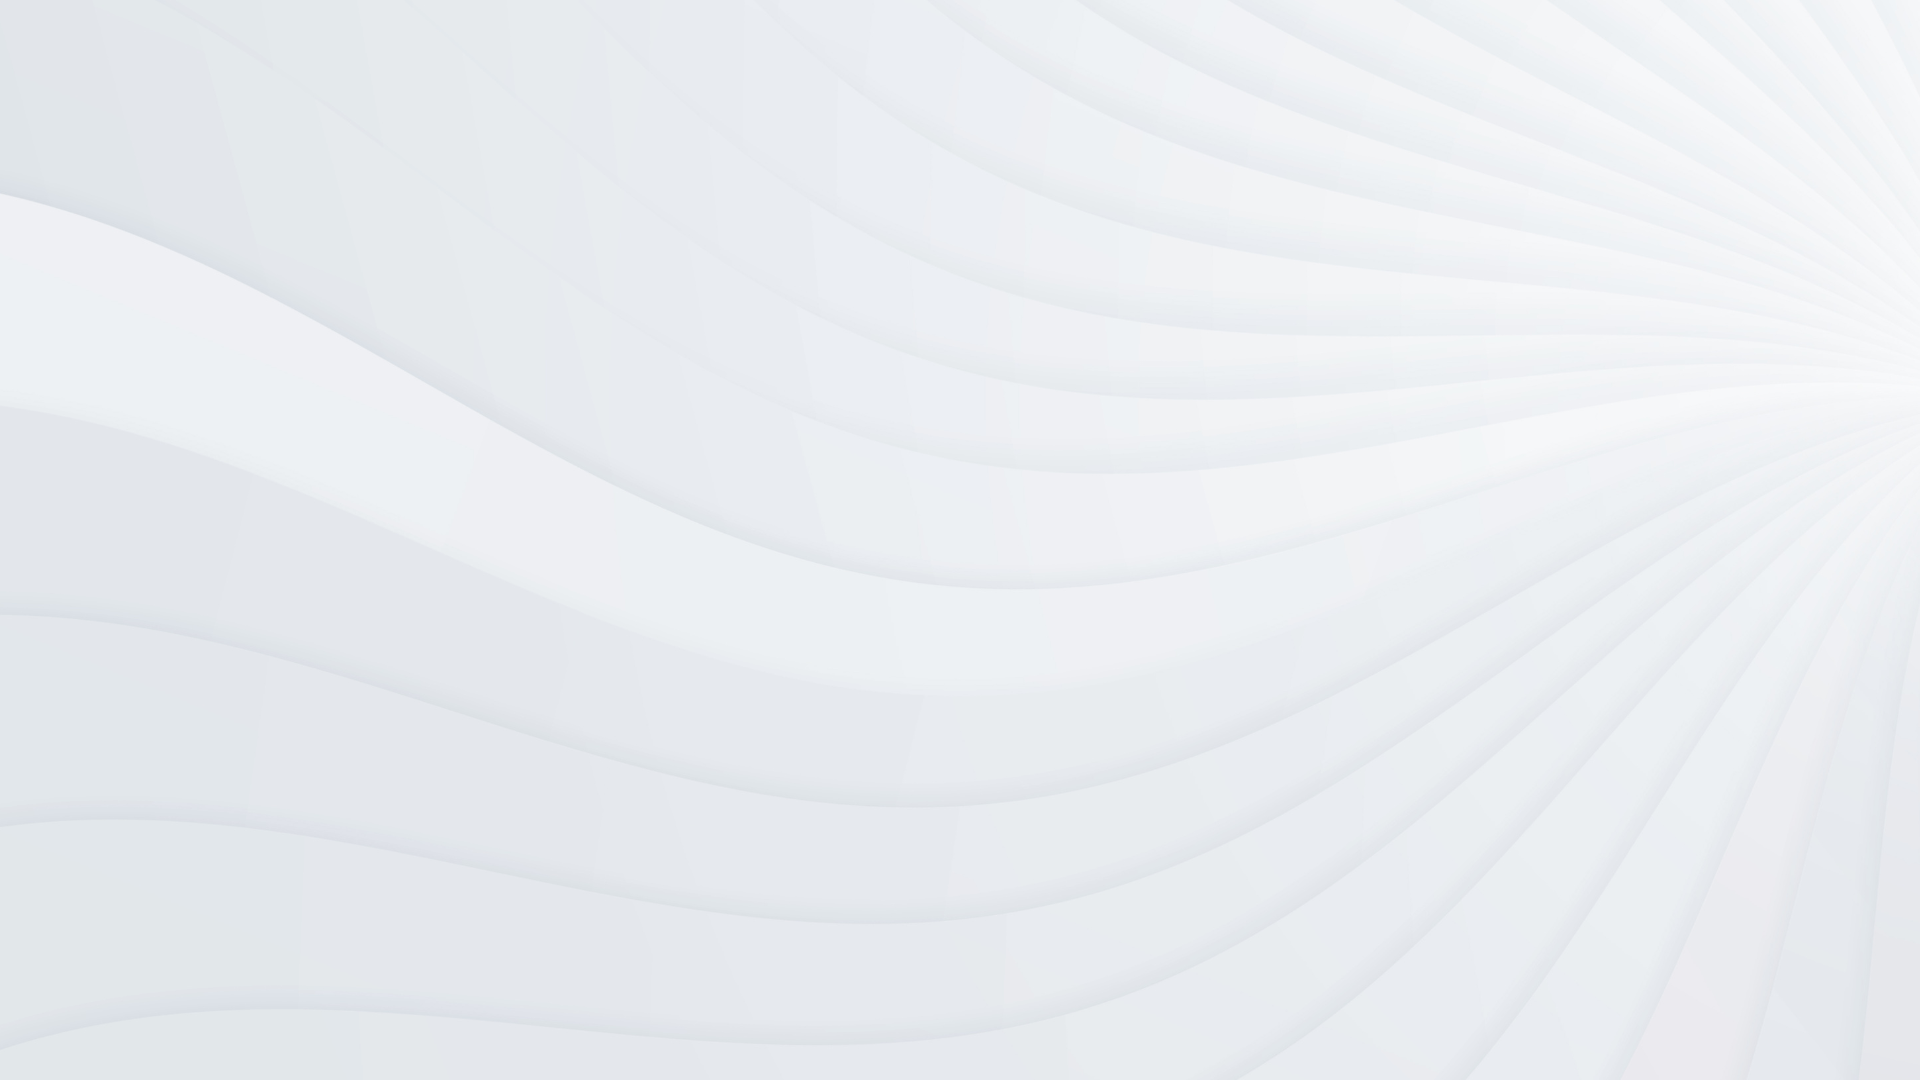
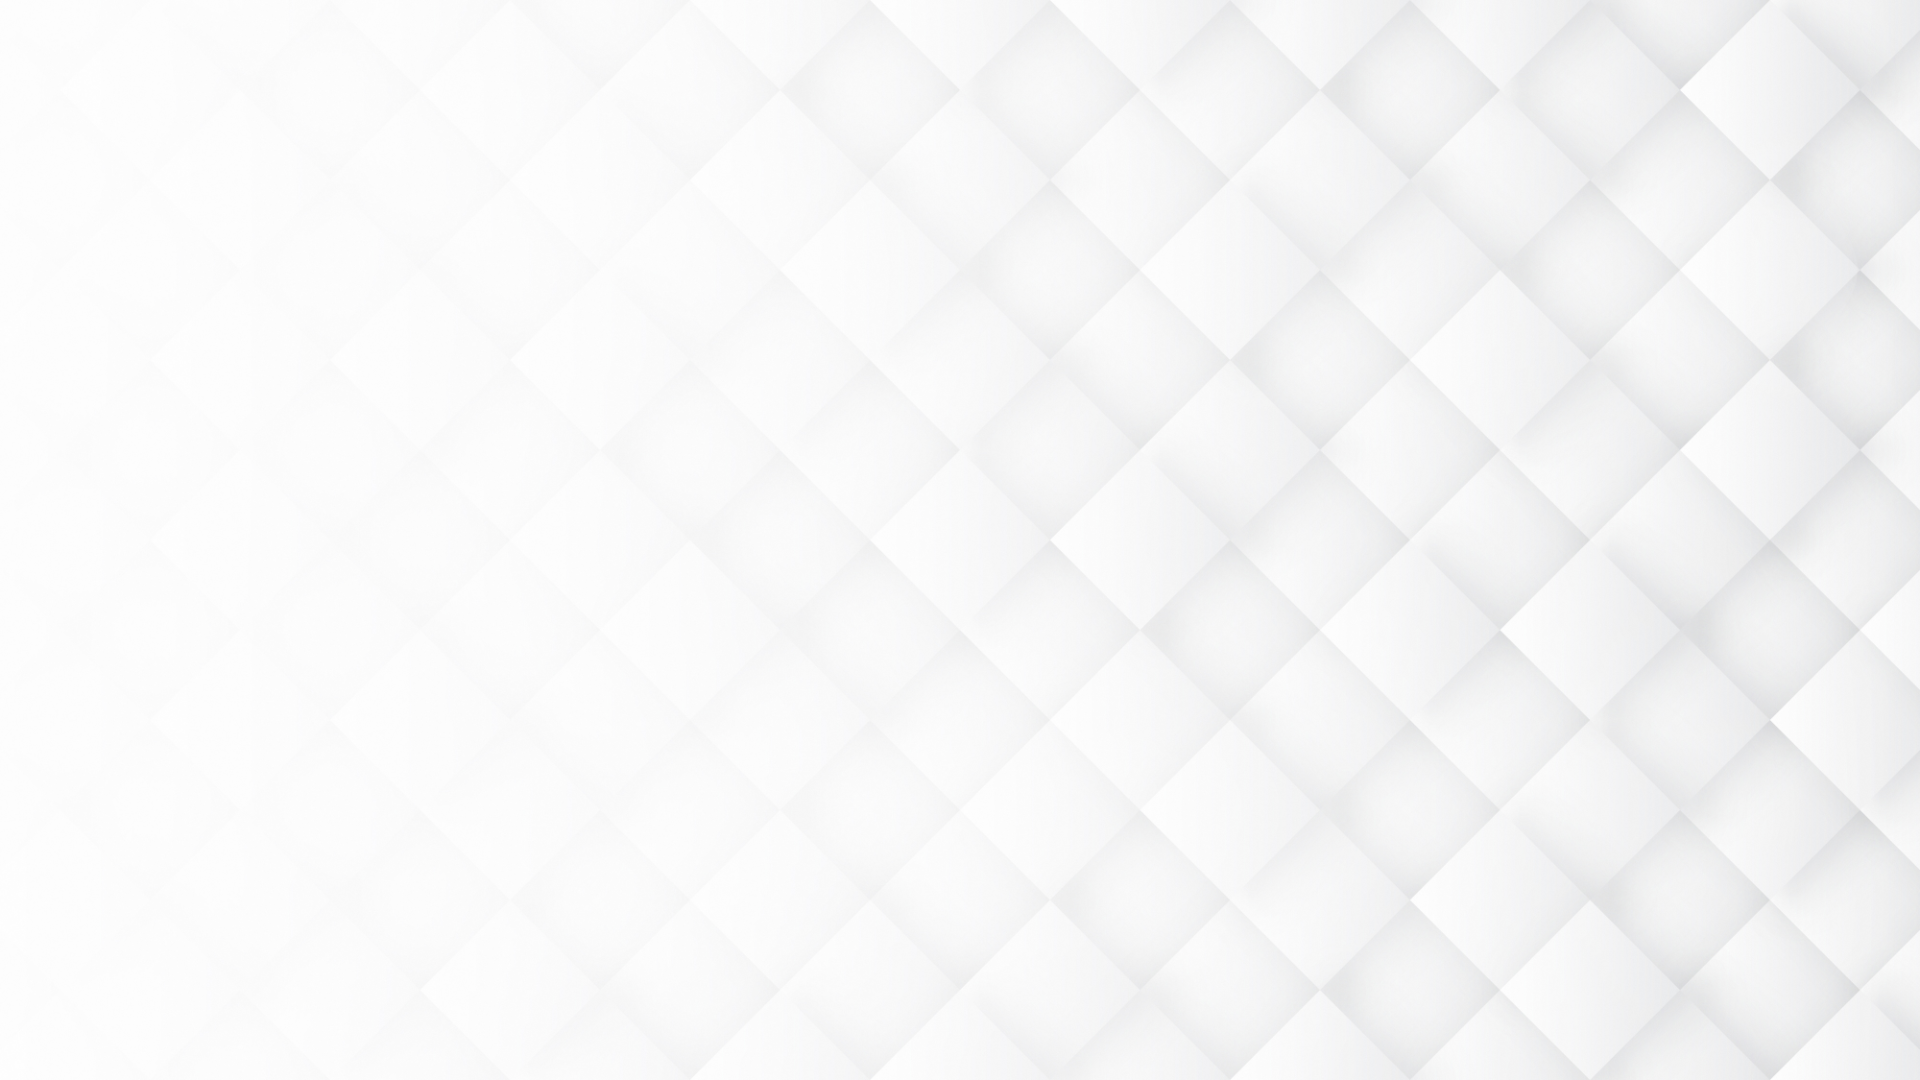
ADD- Carga de imagen en el backgroud

diff --git a/src/app/login/styles/rightSlotStyle.css b/src/app/login/styles/rightSlotStyle.css
@@ -58,7 +58,7 @@ label{
     }
     .admin-mainflex  .right-slot {
         width: 90%!important;
-        margin-top: 25vh;
+        margin-top: 20vh;
     }
 
     .admin-marign-top-9-5{
@@ -66,11 +66,6 @@ label{
    
     }
 
-    body{
-        background-color: white!important;
-        background-image: url("/5.png");
-        background-size: 0%;
-    }
 
     
 }

diff --git a/src/app/globals.css b/src/app/globals.css
@@ -15,6 +15,14 @@ body{
   background-size: cover;
   background-position: center;
 }
+
+@media only screen and (max-width: 1024px) {
+  body{    
+    background-image: url("/6.png")!important;
+  }
+
+  
+}
 @layer utilities {
   .text-balance {
     text-wrap: balance;
